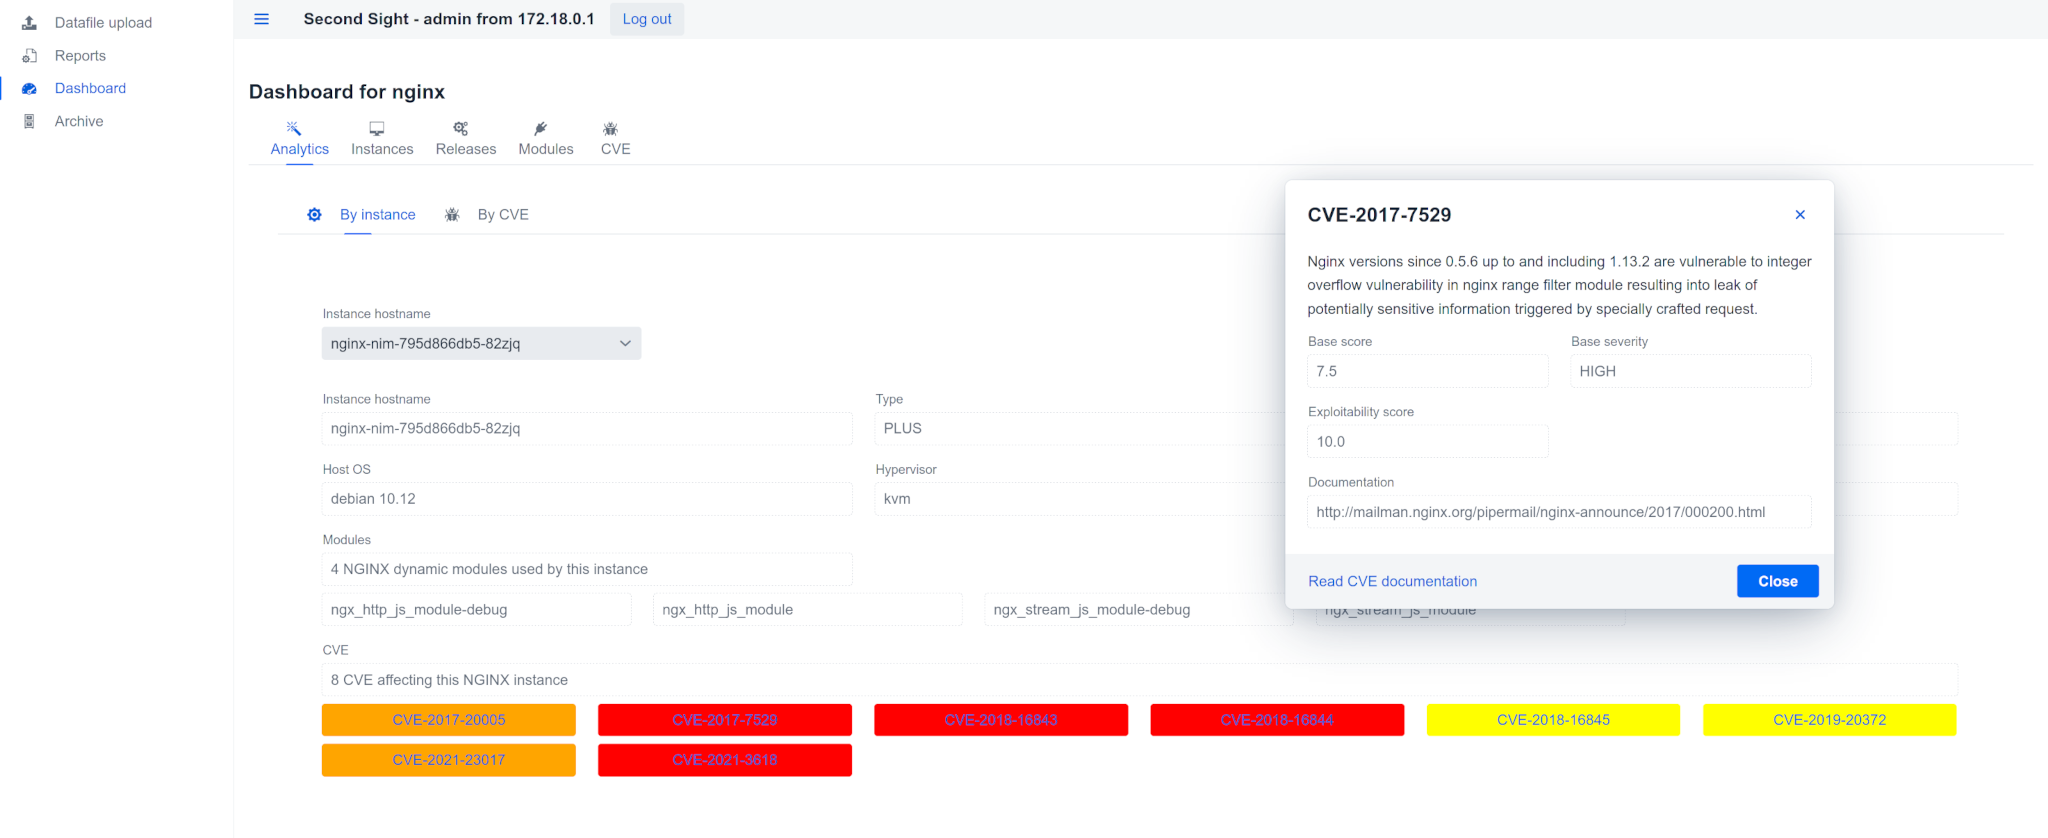
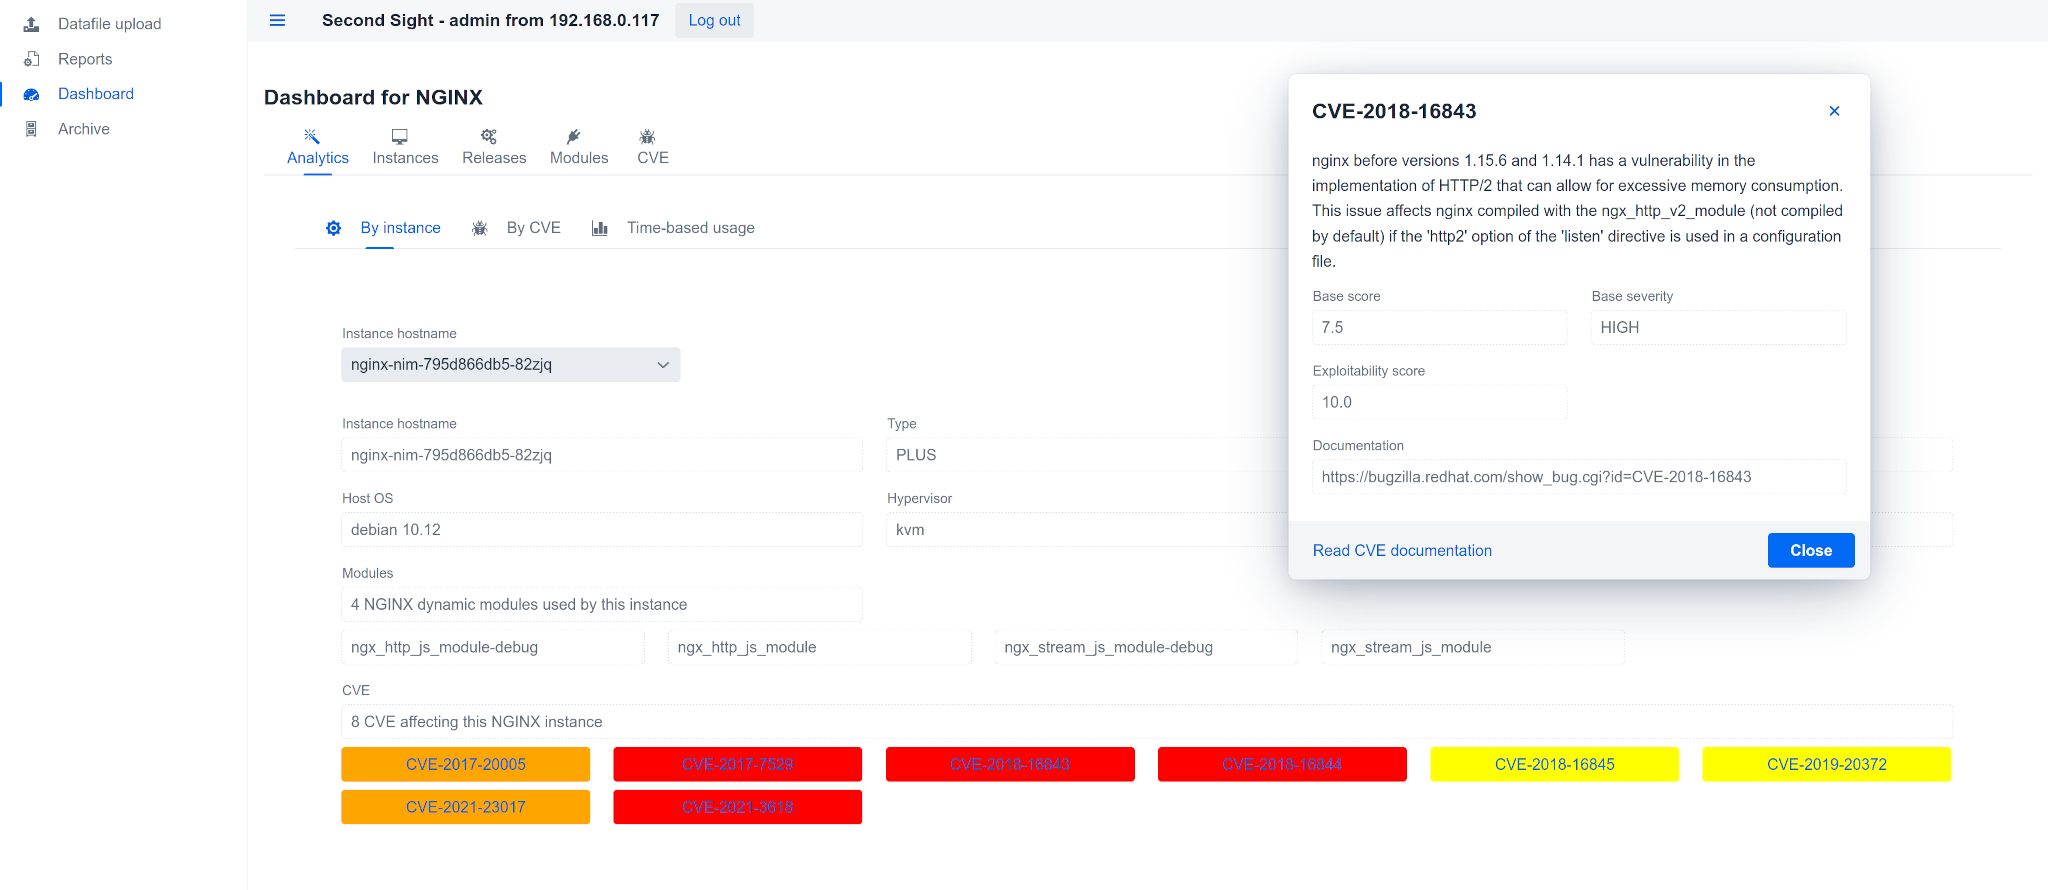
GUI updated, NGINX usage and TMOS telemetry

diff --git a/f5tt/utils.py b/f5tt/utils.py
@@ -1,8 +1,11 @@
+import datetime;
+
 def getVersionJson(reportType='',dataplane=''):
   output = {}
   output['type'] = 'Second Sight'
   output['dataplane'] = dataplane
   output['kind'] = reportType
   output['version'] = '4.0'
+  output['timestamp'] = str(datetime.datetime.now())
 
   return output

diff --git a/README.md b/README.md
@@ -42,90 +42,16 @@ Communication to NGINX Instance Manager / BIG-IQ is based on REST API, current f
 
 Second Sight GUI and sample Grafana dashboards are available:
 
-- [Second Sight GUI walkthrough](/contrib/GUI/USAGE.md)
+- [Second Sight GUI](/contrib/GUI)
 - [Grafana dashboards](/contrib/grafana)
 
-## Architecture
+## F5 Support solutions
 
-High level
+See F5 Support solutions:
 
-```mermaid
-graph TD
-BIGIQ([BIG-IQ CM]) 
-NIM([NGINX Instance Manager])
-
-User([User / external app])
-P2S[[Second Sight collector / F5TT]]
-GUI[[Second Sight GUI]]
-EMAIL([e-mail server])
-BROWSER([Browser])
-MYF5([External REST endpoint])
-
-TMOSVE([TMOS VE])
-BIGIP([BIG-IP])
-VIPRION([VIPRION])
-NGINXOSS([NGINX OSS])  
-NGINXPLUS([NGINX Plus])
-
-P2S -- REST API --> BIGIQ 
-P2S -- REST API --> NIM
-
-GUI --> P2S
-
-BIGIQ --> TMOSVE
-BIGIQ --> BIGIP
-BIGIQ --> VIPRION
-
-NIM --> NGINXOSS
-NIM --> NGINXPLUS
-
-User -- REST API --> P2S
-P2S -- Usage JSON --> User
-
-P2S -- e-mail w/JSON attachment --> EMAIL
-
-BROWSER -- HTTP --> P2S
-P2S -- Grafana Dashboard --> BROWSER
-P2S -- Telemetry Call Home --> MYF5
-```
-
-JSON telemetry mode
-
-```mermaid
-sequenceDiagram
-    participant Control Plane
-    participant Second Sight
-    participant Third party collector
-    participant REST API client
-    participant Email server
-
-    loop Telemetry aggregation
-      Second Sight->>Control Plane: REST API polling
-      Second Sight->>Second Sight: Raw data aggregation
-    end
-    Second Sight->>Third party collector: Push JSON reporting data
-    REST API client->>Second Sight: Fetch JSON reporting data
-    Second Sight->>Email server: Email with attached JSON reporting data
-```
-
-Grafana visualization mode
-
-```mermaid
-sequenceDiagram
-    participant Control Plane
-    participant Second Sight
-    participant Pushgateway
-    participant Prometheus
-    participant Grafana
-
-    loop Telemetry aggregation
-      Second Sight->>Control Plane: REST API polling
-      Second Sight->>Second Sight: Raw data aggregation
-    end
-    Second Sight->>Pushgateway: Push telemetry
-    Prometheus->>Pushgateway: Scrape telemetry
-    Grafana->>Prometheus: Visualization
-```
+- [K83394355: How to count the number of NGINX instances with Second Sight on NGINX Instance Manager](https://support.f5.com/csp/article/K83394355)
+- [K29144504: How to install and use (Offline) Second Sight collection Script on BIG-IQ](https://support.f5.com/csp/article/K29144504)
+- [K94129313: How to install and use Docker Second Sight collection script on BIG-IQ](https://support.f5.com/csp/article/K94129313)
 
 ## Prerequisites
 
@@ -142,6 +68,18 @@ sequenceDiagram
   - BIG-IQ 8.1.0, 8.1.0.2, 8.2.0
 - SMTP server if automated email reporting is used
 - NIST NVD REST API Key for full CVE tracking (https://nvd.nist.gov/developers/request-an-api-key)
+
+## Additional tools
+
+Additional tools can be found [here](/contrib)
+
+- [BIG-IQ Collector](/contrib/bigiq-collect) - Offline BIG-IQ inventory processing
+- [F5TT on BIG-IQ Docker](/contrib/bigiq-docker) - Run F5TT onboard BIG-IQ CM virtual machine
+- [Grafana](/contrib/grafana) - Sample Grafana dashboards
+- [Postman](/contrib/postman) - Sample Postman collection to test and run F5TT
+- [Docker compose](/contrib/docker-compose) - Run F5TT on docker-compose
+- [Kubernetes](/contrib/kubernetes) - Run F5TT on kubernetes to track NGINX usage based on NGINX Instance Manager
+- [Second Sight GUI (beta)](/contrib/GUI) - Web-based GUI for analytics and reporting
 
 # How to run
 
@@ -266,26 +204,6 @@ Service names created by default as Ingress resources are:
 - `pushgateway.f5tt.ff.lan` - Pushgateway web GUI
 - `prometheus.f5tt.ff.lan` - Prometheus web GUI
 - `grafana.f5tt.ff.lan` - Grafana visualization web GUI
-
-## Additional tools
-
-Additional tools can be found [here](/contrib)
-
-- [BIG-IQ Collector](/contrib/bigiq-collect) - Offline BIG-IQ inventory processing
-- [F5TT on BIG-IQ Docker](/contrib/bigiq-docker) - Run F5TT onboard BIG-IQ CM virtual machine
-- [Grafana](/contrib/grafana) - Sample Grafana dashboards
-- [Postman](/contrib/postman) - Sample Postman collection to test and run F5TT
-- [Docker compose](/contrib/docker-compose) - Run F5TT on docker-compose
-- [Kubernetes](/contrib/kubernetes) - Run F5TT on kubernetes to track NGINX usage based on NGINX Instance Manager
-- [Second Sight GUI (beta)](/contrib/GUI) - Web-based GUI for analytics and reporting
-
-## F5 Support solutions
-
-See F5 Support solutions:
-
-- K83394355: How to count the number of NGINX instances with Second Sight on NGINX Instance Manager - https://support.f5.com/csp/article/K83394355
-- K29144504: How to install and use (Offline) Second Sight collection Script on BIG-IQ - https://support.f5.com/csp/article/K29144504
-- K94129313: How to install and use Docker Second Sight collection script - https://support.f5.com/csp/article/K94129313
 
 # Usage
 

diff --git a/USAGE.md b/USAGE.md
@@ -138,7 +138,84 @@ Authorization: Basic YWE6YmI=
 }
 ```
 
+## Architecture
 
-## Visualization
+High level
 
-See [Grafana](/contrib/grafana) and [Second Sight GUI](/contrib/GUI)
+```mermaid
+graph TD
+BIGIQ([BIG-IQ CM]) 
+NIM([NGINX Instance Manager])
+
+User([User / external app])
+P2S[[Second Sight collector / F5TT]]
+GUI[[Second Sight GUI]]
+EMAIL([e-mail server])
+BROWSER([Browser])
+MYF5([External REST endpoint])
+
+TMOSVE([TMOS VE])
+BIGIP([BIG-IP])
+VIPRION([VIPRION])
+NGINXOSS([NGINX OSS])  
+NGINXPLUS([NGINX Plus])
+
+P2S -- REST API --> BIGIQ 
+P2S -- REST API --> NIM
+
+GUI --> P2S
+
+BIGIQ --> TMOSVE
+BIGIQ --> BIGIP
+BIGIQ --> VIPRION
+
+NIM --> NGINXOSS
+NIM --> NGINXPLUS
+
+User -- REST API --> P2S
+P2S -- Usage JSON --> User
+
+P2S -- e-mail w/JSON attachment --> EMAIL
+
+BROWSER -- HTTP --> P2S
+P2S -- Grafana Dashboard --> BROWSER
+P2S -- Telemetry Call Home --> MYF5
+```
+
+JSON telemetry mode
+
+```mermaid
+sequenceDiagram
+    participant Control Plane
+    participant Second Sight
+    participant Third party collector
+    participant REST API client
+    participant Email server
+
+    loop Telemetry aggregation
+      Second Sight->>Control Plane: REST API polling
+      Second Sight->>Second Sight: Raw data aggregation
+    end
+    Second Sight->>Third party collector: Push JSON reporting data
+    REST API client->>Second Sight: Fetch JSON reporting data
+    Second Sight->>Email server: Email with attached JSON reporting data
+```
+
+Grafana visualization mode
+
+```mermaid
+sequenceDiagram
+    participant Control Plane
+    participant Second Sight
+    participant Pushgateway
+    participant Prometheus
+    participant Grafana
+
+    loop Telemetry aggregation
+      Second Sight->>Control Plane: REST API polling
+      Second Sight->>Second Sight: Raw data aggregation
+    end
+    Second Sight->>Pushgateway: Push telemetry
+    Prometheus->>Pushgateway: Scrape telemetry
+    Grafana->>Prometheus: Visualization
+```

diff --git a/contrib/GUI/USAGE.md b/contrib/GUI/USAGE.md
@@ -13,15 +13,17 @@
 
 3. The "Archive" section displays the list of all loaded BIG-IQ and NGINX data collections. Filtering/search and sorting capabilities are available
 
-<img src="/contrib/GUI/screenshots/4.archive.png"/>
+<img src="/contrib/GUI/screenshots/3.archive.png"/>
 
-4. The "Dashboard" section is used to display analytics and drill down into TMOS devices and NGINX instances details
+4. The "Dashboard" section is used to display analytics, drill down into TMOS devices and NGINX instances details and display NGINX instances usage
 
-<img src="/contrib/GUI/screenshots/5.bigiq-swhw.png"/>
+<img src="/contrib/GUI/screenshots/4.bigiq-swhw.png"/>
+<img src="/contrib/GUI/screenshots/5.bigiq-telemetry.png"/>
 <img src="/contrib/GUI/screenshots/6.nginx-analytics.png"/>
 <img src="/contrib/GUI/screenshots/7.nginx-releases.png"/>
+<img src="/contrib/GUI/screenshots/8.nginx-timebased.png"/>
 
 5. The "Reports" section is used to download reports in JSON and PDF format for TMOS devices and NGINX instances
 
-<img src="/contrib/GUI/screenshots/8.tmos-json-report.png"/>
-<img src="/contrib/GUI/screenshots/9.nginx-pdf-report.png"/>
+<img src="/contrib/GUI/screenshots/9.tmos-json-report.png"/>
+<img src="/contrib/GUI/screenshots/10.nginx-pdf-report.png"/>

diff --git a/contrib/GUI/README.md b/contrib/GUI/README.md
@@ -2,6 +2,8 @@
 
 Second Sight GUI is currently in beta release and not all features are complete/available yet: GitHub issues can be opened to report bugs.
 
+The GUI walkthrough is [available here](/contrib/GUI/USAGE.md)
+
 # How to deploy
 
 The GUI can be deployed using docker compose 1.29+ on a Linux virtual machine running Docker:
@@ -46,8 +48,6 @@ $
 
 The GUI can be accessed browsing to http://<VM_IP_ADDRESS>
 Both username and password are set to `admin`
-
-The GUI walkthrough is [available here](/contrib/GUI/USAGE.md)
 
 ## Removal
 
